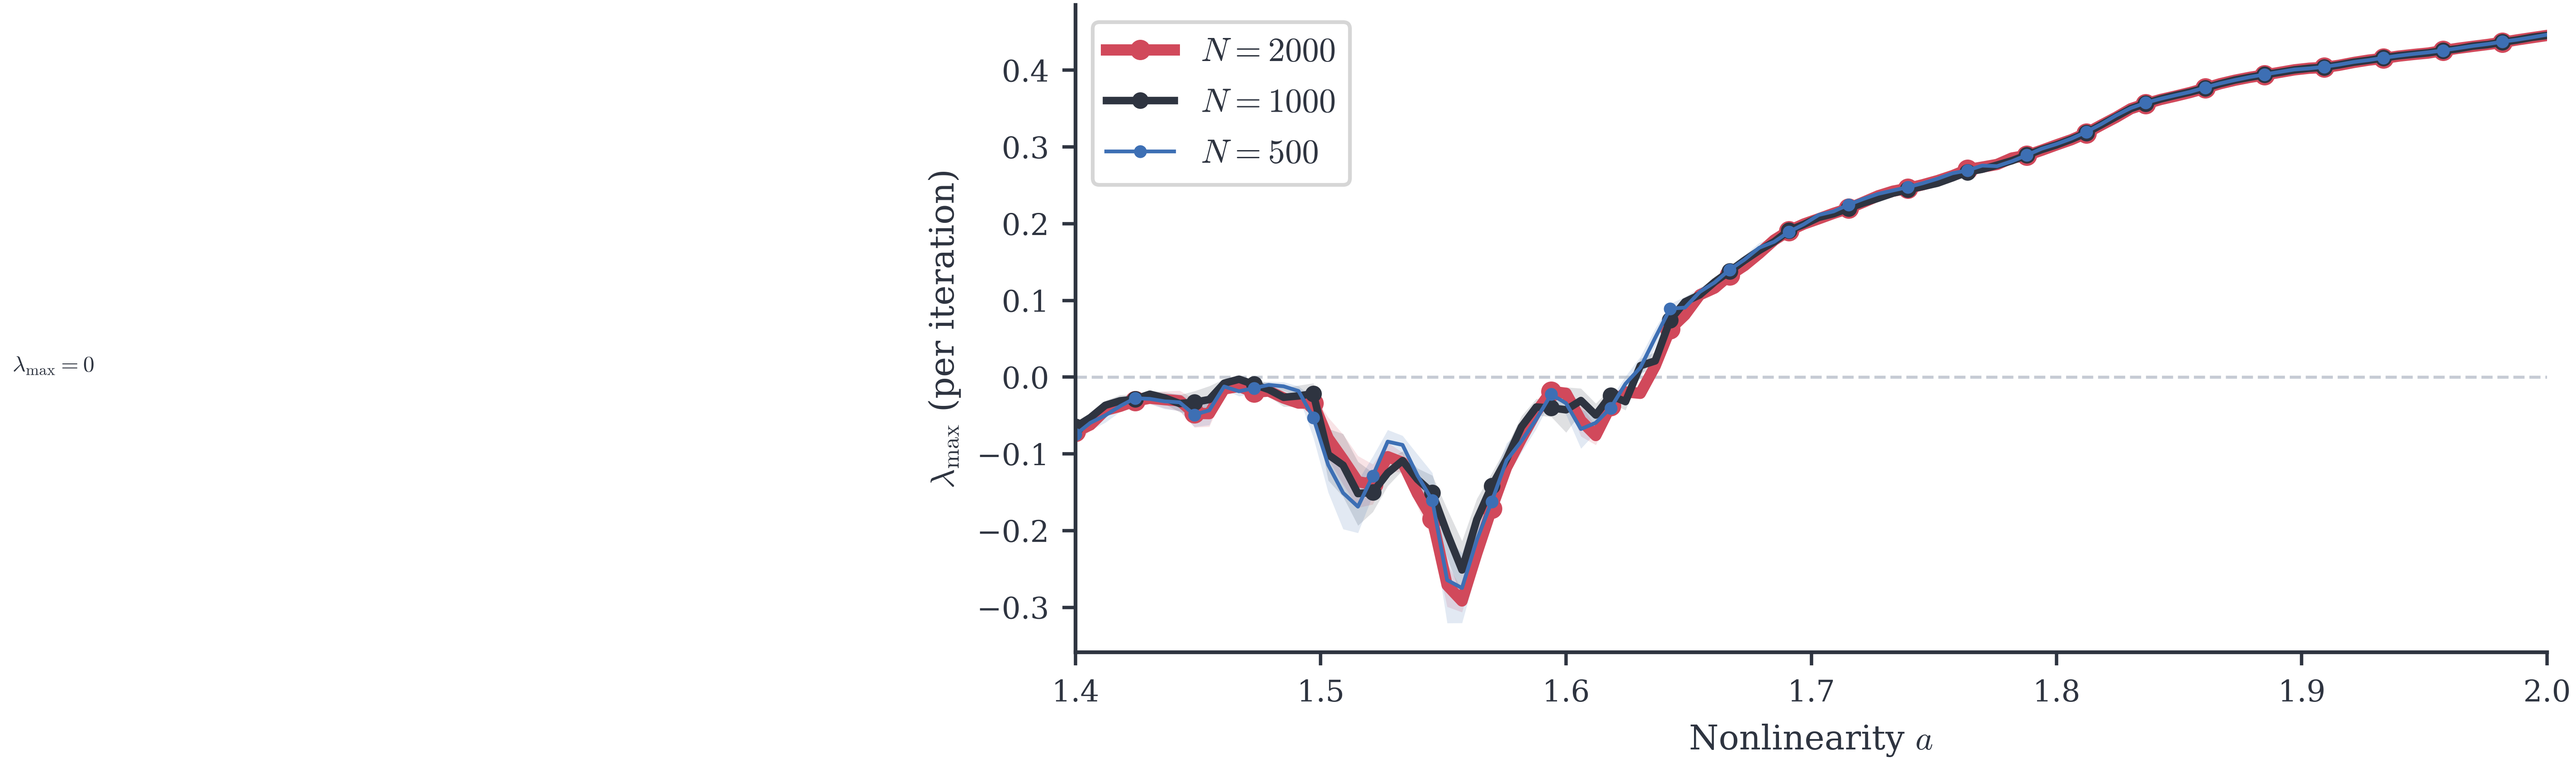
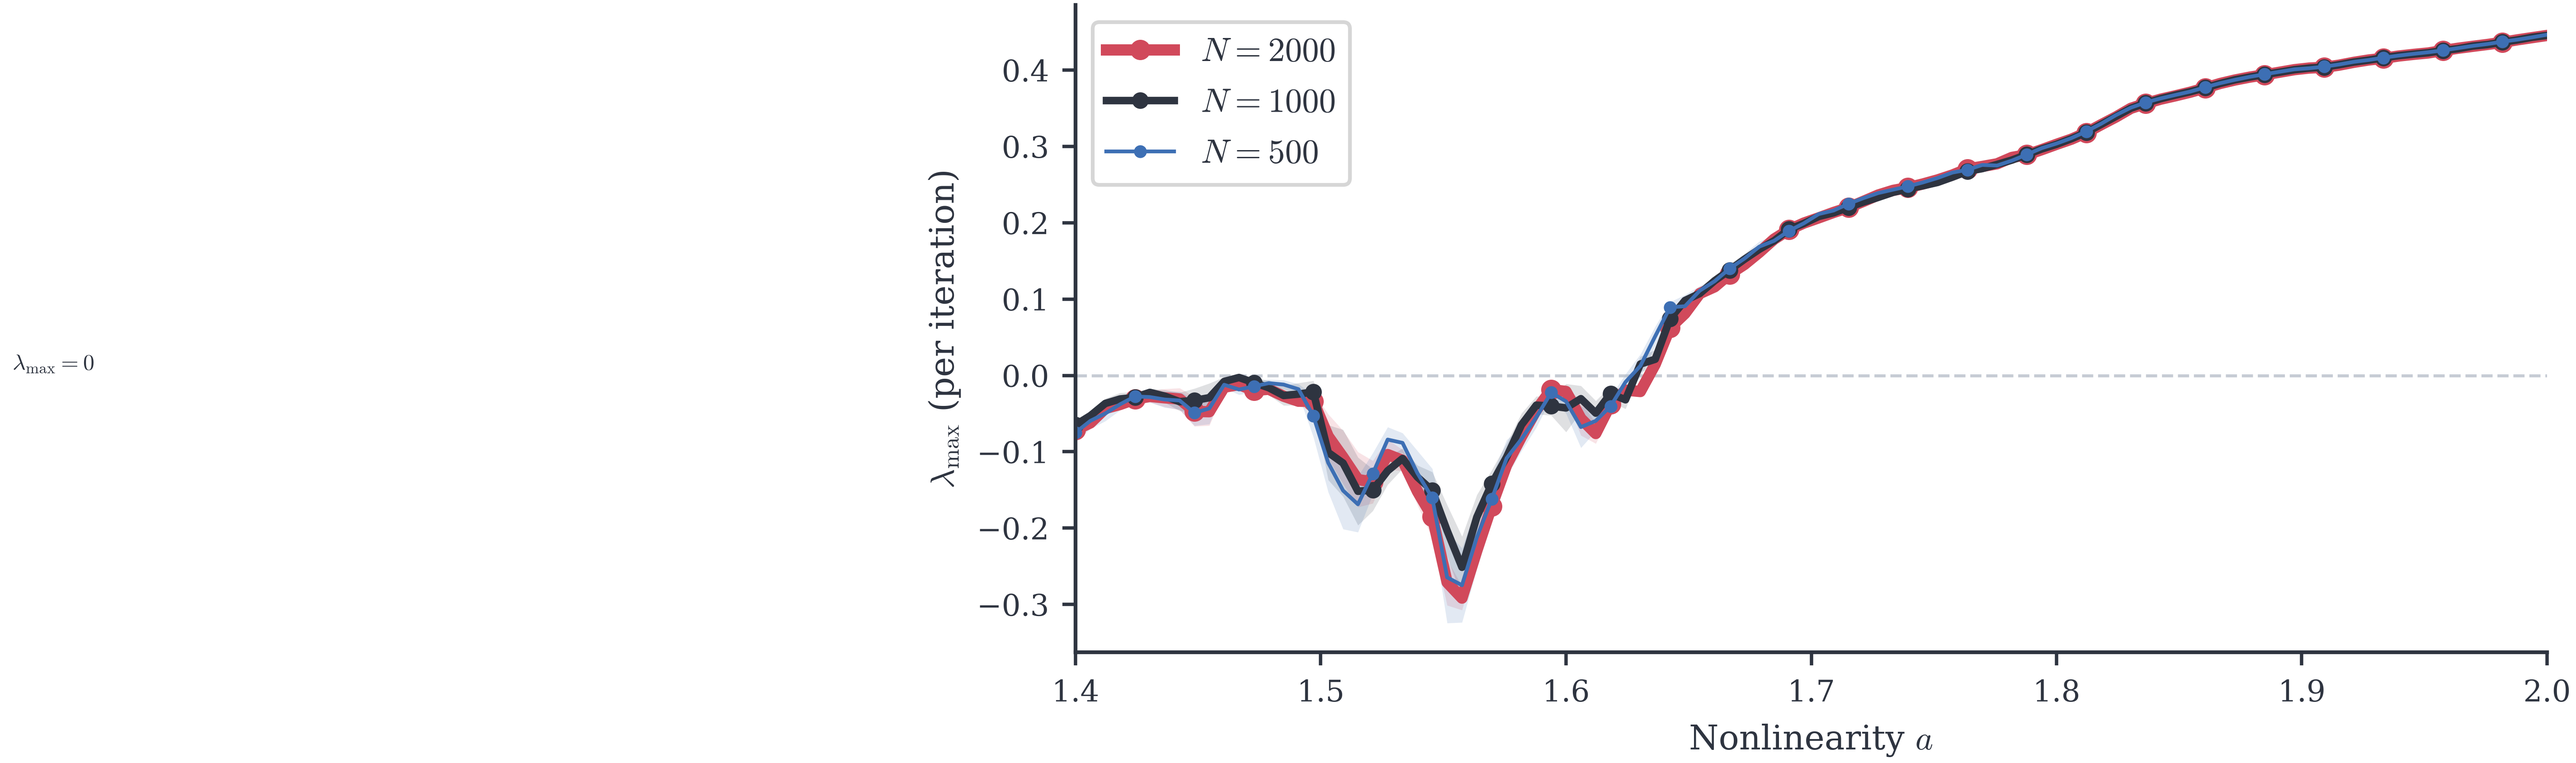
gcm_lyapunov_max: standard error with ddof = 1
The band used the population standard deviation (ddof = 0), which understates the standard error of an 8-seed mean by sqrt(7/8). The docstring said so; now both use the sample deviation. Cache and figure regenerated: the runs are bit-identical, se_N grows by 1.069, the first a with mean > 2 SE is unchanged.

diff --git a/src/dynachaos/cml/gcm_lyapunov_max.py b/src/dynachaos/cml/gcm_lyapunov_max.py
@@ -87,7 +87,7 @@ def compute(
     The run for size N, seed index s and a-index ia uses the generator seed
     ``seed_base + 1000 * N + s + ia``.  ``runs_<N>`` has shape ``(n_seeds, len(a))``;
     ``mean_<N>`` and ``se_<N>`` are the mean over seeds and its standard error
-    (population standard deviation over sqrt(n_seeds)).
+    (sample standard deviation, ddof = 1, over sqrt(n_seeds)).
     """
     if a_values is None:
         a_values = np.linspace(1.40, 2.00, 100)
@@ -114,7 +114,7 @@ def compute(
         )
         payload[f"runs_{N}"] = runs
         payload[f"mean_{N}"] = runs.mean(axis=0)
-        payload[f"se_{N}"] = runs.std(axis=0) / np.sqrt(n_seeds)
+        payload[f"se_{N}"] = runs.std(axis=0, ddof=1) / np.sqrt(n_seeds)
         print(f"  N = {N}: lambda_max in [{runs.min():+.4f}, {runs.max():+.4f}]", flush=True)
 
     if output_path is not None:

diff --git a/tests/test_gcm_lyapunov_max.py b/tests/test_gcm_lyapunov_max.py
@@ -115,7 +115,7 @@ def test_compute_seeds_each_run_by_size_seed_and_a_index(tmp_path):
             expected = gcm_lyapunov_max.lyapunov_max(a, 0.1, 10, 20, 60, 7 + 1000 * 10 + s + ia)
             assert runs[s, ia] == expected
     np.testing.assert_allclose(payload["mean_10"], runs.mean(axis=0))
-    np.testing.assert_allclose(payload["se_10"], runs.std(axis=0) / np.sqrt(3))
+    np.testing.assert_allclose(payload["se_10"], runs.std(axis=0, ddof=1) / np.sqrt(3))
     with np.load(output_path, allow_pickle=False) as saved:
         assert set(saved.files) == set(payload)
         np.testing.assert_array_equal(saved["runs_6"], payload["runs_6"])
